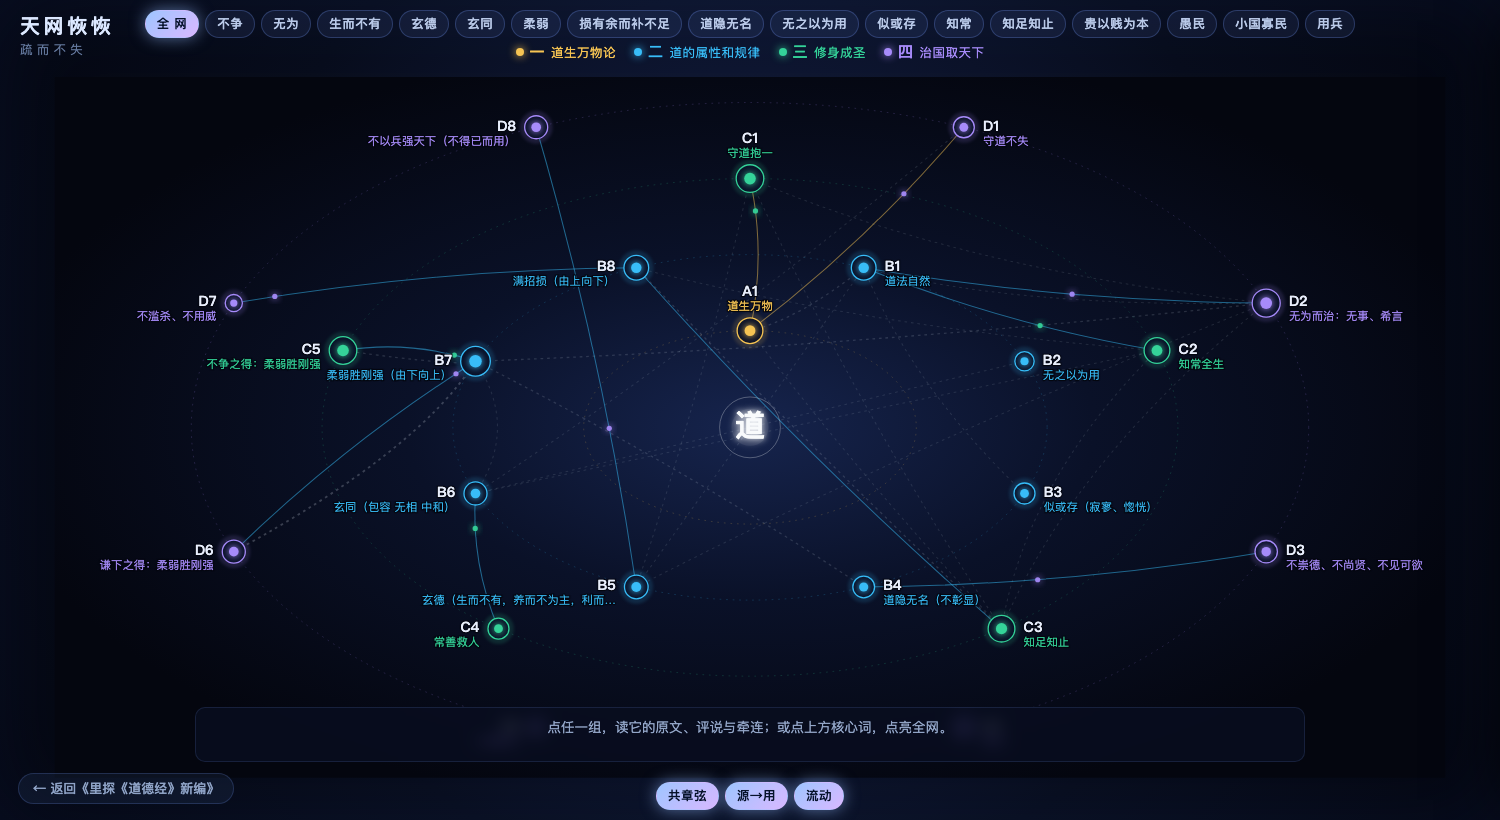
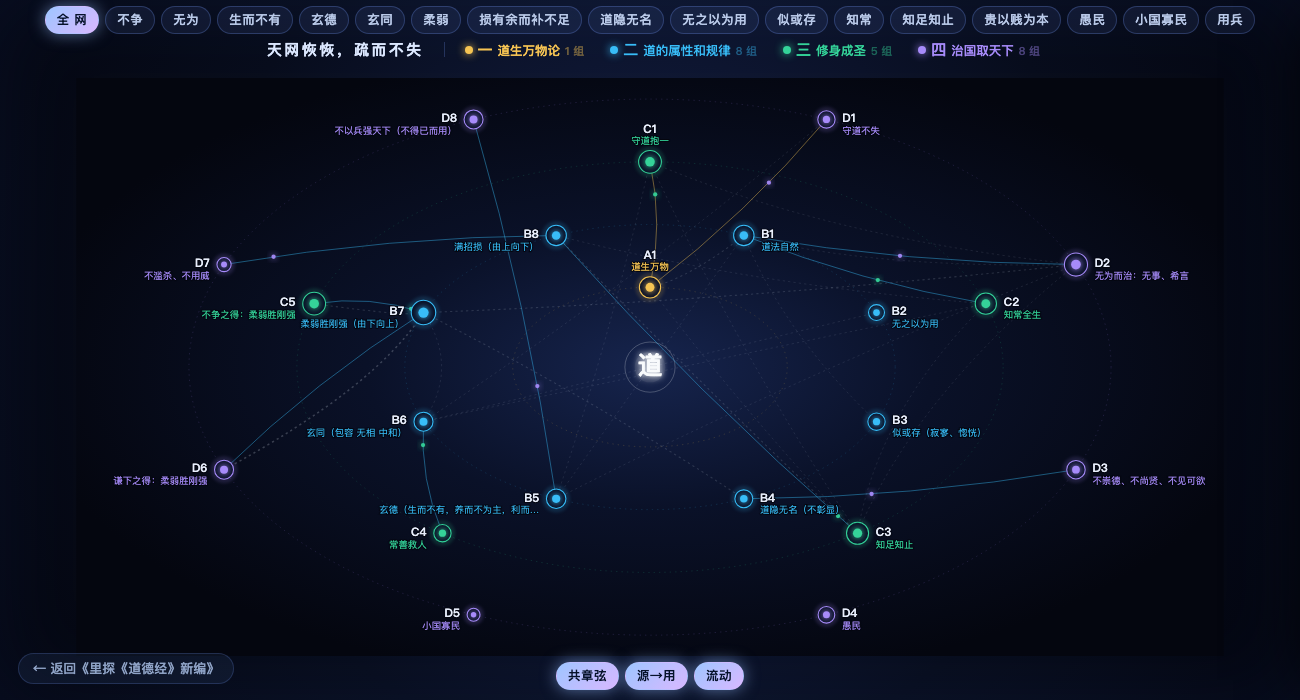
天网恢恢：修题名遮挡；图例改为可点
① 题名不再浮动（原先遮住「全网」按钮）
- 原为 position:fixed 贴左上，而按钮栏居中，窗口一窄就重叠
- 改为并入图例行左端（行内元素），天然不重叠；窄屏自动隐藏

② 四部图例改为可点按钮
- 显示各部组数（一 1 组／二 8 组／三 5 组／四 8 组）
- 点击 → 点亮该部全部节点、暗下其余，读出栏列出该部各组并可继续点入
- 再点一次取消；与核心词、悬停、点节点共用同一套高亮
- 悬停有底色反馈，选中态填色发光

修复一个由此暴露的运行时错误
- 图例创建块被放在引用它的代码之后（var 提升为 undefined），
  mount() 中途抛 TypeError，导致按钮栏／图例／读出栏全未插入
- 已将该块上移至 reset() 之前

验证（headless）
- DOM 复查：tdn-chips／tdn-legend／tdn-readout／tdn-stage／tdn-toggles 齐备，
  4 个 .tdn-leg 按钮
- 实渲染：点「二部」→ 8 个 B 组点亮、D/C/A 组暗下

diff --git a/_script/tiandao-net.js b/_script/tiandao-net.js
@@ -316,11 +316,44 @@
     var DEF = '点任一组，读它的原文、评说与牵连；或点上方核心词，点亮全网。';
     readout.innerHTML = DEF;
 
+    var legend = document.createElement('div');
+    legend.className = 'tdn-legend';
+    legend.innerHTML = '<span class="tdn-title">天网恢恢，疏而不失</span>' +
+      ['一', '二', '三', '四'].map(function (d) {
+        return '<button class="tdn-leg" data-dept="' + d + '" style="--c:' + COLOR[d] + '">' +
+          '<b>' + d + '</b>' + SHORT[d] + '<i>' + DATA.nodes.filter(function (n) { return n.dept === d; }).length + ' 组</i></button>';
+      }).join('');
+
     function reset() {
       Array.prototype.forEach.call(bar.children, function (x) { x.classList.remove('on'); });
       all.classList.add('on');
     }
-    all.onclick = function () { reset(); highlight(null); close(); readout.innerHTML = DEF; };
+    function clearLeg() {
+      Array.prototype.forEach.call(legend.querySelectorAll('.tdn-leg'), function (x) { x.classList.remove('on'); });
+    }
+    function resetAll() { reset(); clearLeg(); }
+    all.onclick = function () { resetAll(); highlight(null); close(); readout.innerHTML = DEF; };
+
+    Array.prototype.forEach.call(legend.querySelectorAll('.tdn-leg'), function (btn) {
+      btn.onclick = function () {
+        var d = btn.getAttribute('data-dept');
+        var on = btn.classList.contains('on');
+        reset(); close();
+        if (on) { clearLeg(); highlight(null); readout.innerHTML = DEF; return; }
+        clearLeg(); btn.classList.add('on');
+        var ids = DATA.nodes.filter(function (n) { return n.dept === d; }).map(function (n) { return n.id; });
+        highlight(ids);
+        readout.innerHTML = '<b style="color:' + COLOR[d] + '">' + d + '部　' + SHORT[d] + '</b>' +
+          '　共 ' + ids.length + ' 组：' +
+          ids.map(function (i) {
+            var n = byId[i];
+            return '<button class="tdn-jump" data-id="' + i + '" style="--c:' + COLOR[n.dept] + '">' + i + ' ' + esc(n.name) + '</button>';
+          }).join('');
+        Array.prototype.forEach.call(readout.querySelectorAll('.tdn-jump'), function (x) {
+          x.onclick = function () { open(x.getAttribute('data-id')); };
+        });
+      };
+    });
     words.forEach(function (w, k) {
       bar.children[k + 1].onclick = function () {
         Array.prototype.forEach.call(bar.children, function (x) { x.classList.remove('on'); });
@@ -338,11 +371,6 @@
         });
       };
     });
-    var legend = document.createElement('div');
-    legend.className = 'tdn-legend';
-    legend.innerHTML = ['一', '二', '三', '四'].map(function (d) {
-      return '<span style="--c:' + COLOR[d] + '"><b>' + d + '</b>' + SHORT[d] + '</span>';
-    }).join('');
     host.insertBefore(bar, ctx.stage);
     host.insertBefore(legend, ctx.stage);
     host.insertBefore(readout, ctx.stage);
@@ -356,7 +384,7 @@
           '　收录 <b>' + n.chs.length + '</b> 章 / <b>' + n.n + '</b> 句　·　点它读原文';
       });
       g.addEventListener('mouseleave', function () {
-        if (!drawer.classList.contains('open')) { highlight(null); reset(); readout.innerHTML = DEF; }
+        if (!drawer.classList.contains('open')) { highlight(null); resetAll(); readout.innerHTML = DEF; }
       });
       g.addEventListener('click', function () { open(id); });
     });

diff --git a/_style/tiandao-net.css b/_style/tiandao-net.css
@@ -156,18 +156,28 @@ body.tdn-standalone .tdn-toggles { padding: 4px 12px 10px; }
   color: #8fa3c6; text-decoration: none; padding: 8px 14px; border-radius: 999px;
   background: rgba(120,160,255,.08); border: 1px solid rgba(120,160,255,.2); transition: .2s; }
 .tdn-back:hover { color: #dbe7ff; background: rgba(120,160,255,.2); }
-.tdn-mark { position: fixed; left: 20px; top: 15px; z-index: 30; margin: 0;
-  font: 700 20px/1.15 -apple-system, "PingFang SC", "Microsoft YaHei", sans-serif;
-  letter-spacing: .18em; color: #dce8ff; pointer-events: none; }
-.tdn-mark span { display: block; margin-top: 5px;
-  font-size: 12.5px; font-weight: 400; letter-spacing: .34em; color: #63779c; }
-@media (max-width: 1180px) { .tdn-mark { display: none; } }
+/* 题名（并入图例行，左端） */
+.tdn-legend .tdn-title {
+  font: 700 15px/1 -apple-system, "PingFang SC", "Microsoft YaHei", sans-serif;
+  letter-spacing: .16em; color: #dce8ff; padding-right: 20px; margin-right: 4px;
+  border-right: 1px solid rgba(120,160,255,.24); }
+/* 可点的图例项 */
+.tdn-leg {
+  font: 500 12.5px/1 -apple-system, "PingFang SC", "Microsoft YaHei", sans-serif;
+  display: inline-flex; align-items: baseline; gap: 5px; cursor: pointer;
+  color: var(--c); background: transparent; padding: 4px 9px; border-radius: 999px;
+  border: 1px solid transparent; transition: .18s; }
+.tdn-leg b { font-size: 15px; }
+.tdn-leg i { font-style: normal; opacity: .42; font-size: 11px; }
+.tdn-leg:hover { background: color-mix(in srgb, var(--c) 14%, transparent);
+  border-color: color-mix(in srgb, var(--c) 40%, transparent); }
+.tdn-leg.on { color: #06122b; background: var(--c); border-color: transparent;
+  box-shadow: 0 0 16px color-mix(in srgb, var(--c) 70%, transparent); }
+.tdn-leg.on i { opacity: .6; }
+@media (max-width: 1180px) { .tdn-legend .tdn-title { display: none; } }
 
 /* 部图例（全屏页横排） */
-.tdn-legend { display: flex; flex-wrap: wrap; gap: 4px 18px; justify-content: center;
-  font-size: 12.5px; letter-spacing: .04em; }
-.tdn-legend span { color: var(--c); display: inline-flex; align-items: baseline; gap: 6px; }
-.tdn-legend span b { font-size: 15px; }
-.tdn-legend span i { font-style: normal; opacity: .45; font-size: 11.5px; letter-spacing: .1em; }
-.tdn-legend span::before { content: ''; width: 8px; height: 8px; border-radius: 50%;
+.tdn-legend { display: flex; flex-wrap: wrap; gap: 3px 6px; justify-content: center;
+  align-items: center; font-size: 12.5px; letter-spacing: .04em; padding: 2px 12px 6px; }
+.tdn-leg::before { content: ''; width: 8px; height: 8px; border-radius: 50%;
   background: var(--c); box-shadow: 0 0 8px var(--c); align-self: center; }

diff --git a/wang.html b/wang.html
@@ -13,7 +13,6 @@
 <body class="tdn-standalone">
   <div class="tdn-wrap" id="tiandao-net"></div>
 
-  <h1 class="tdn-mark">天网恢恢<span>疏而不失</span></h1>
   <a class="tdn-back" href="index.html#/00">← 返回《里探《道德经》新编》</a>
 
   <script src="_script/tiandao-net.js"></script>
